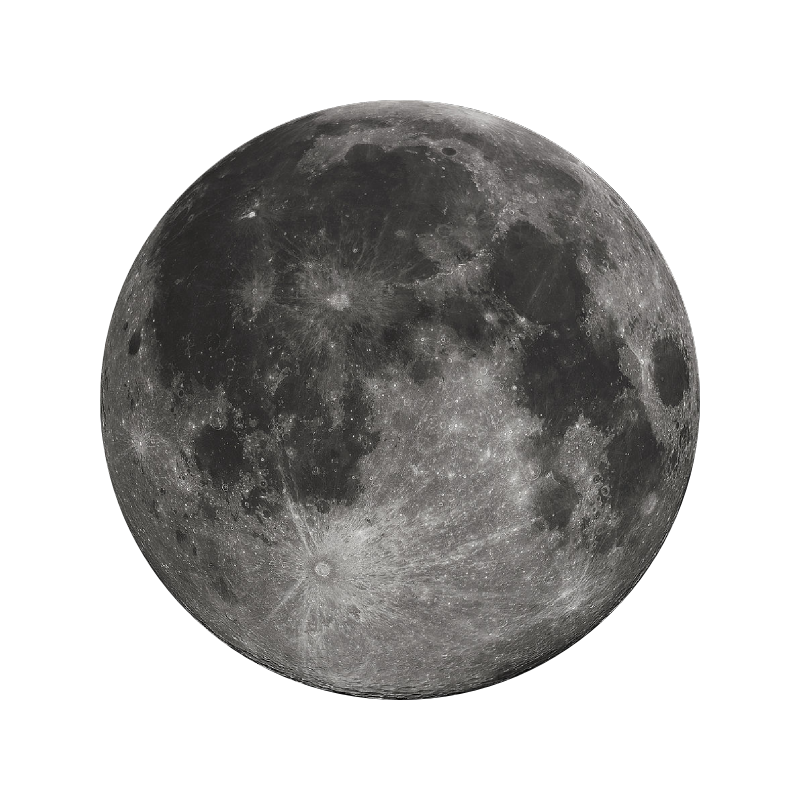
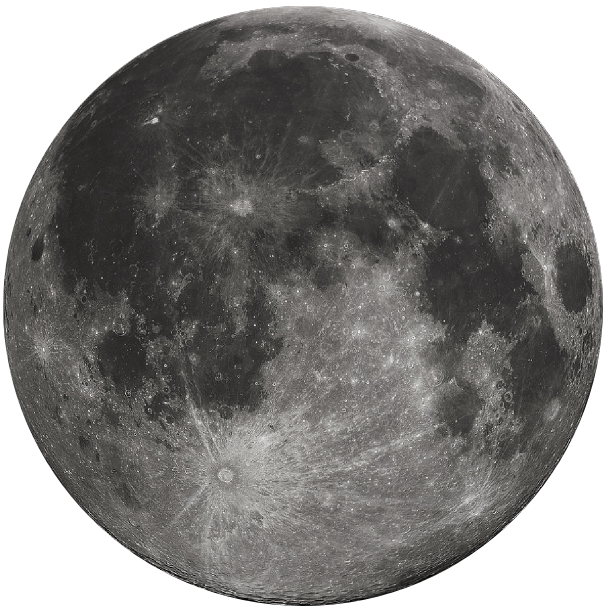
Fixed rendering of round objects

diff --git a/core/src/com/binarygames/spaceboi/gameobjects/entities/EntityStatic.java b/core/src/com/binarygames/spaceboi/gameobjects/entities/EntityStatic.java
@@ -2,6 +2,7 @@ package com.binarygames.spaceboi.gameobjects.entities;
 
 import com.badlogic.gdx.graphics.OrthographicCamera;
 import com.badlogic.gdx.graphics.Texture;
+import com.badlogic.gdx.graphics.g2d.Sprite;
 import com.badlogic.gdx.graphics.g2d.SpriteBatch;
 import com.badlogic.gdx.math.Vector3;
 import com.badlogic.gdx.physics.box2d.Body;
@@ -14,7 +15,7 @@ public abstract class EntityStatic extends BaseStaticBody {
 
     protected Body body;
 
-    private Texture texture;
+    private Sprite sprite;
 
     private float x;
     private float y;
@@ -24,9 +25,12 @@ public abstract class EntityStatic extends BaseStaticBody {
 
     public EntityStatic(World aWorld, float x, float y, String path, float mass, float radius) {
         super(aWorld, x, y, mass, radius);
-        texture = new Texture(path);
         this.x = x;
         this.y = y;
+
+        sprite = new Sprite(new Texture(path));
+        //sprite.setOrigin(sprite.getWidth() / 2, sprite.getHeight() / 2);
+        sprite.setSize(radius * 2 / WORLD_TO_BOX, radius * 2 / WORLD_TO_BOX);
 
         BodyDef groundBodyDef = new BodyDef();
         groundBodyDef.position.set(pos);
@@ -44,7 +48,8 @@ public abstract class EntityStatic extends BaseStaticBody {
     @Override
     public void render(SpriteBatch batch, OrthographicCamera camera) {
         Vector3 screenCoords = camera.project(new Vector3(body.getPosition(), 0));
-        batch.draw(texture, screenCoords.x - texture.getWidth() / 2, screenCoords.y - texture.getHeight() / 2);
+        sprite.setPosition(screenCoords.x - sprite.getWidth() / 2, screenCoords.y - sprite.getHeight() / 2);
+        sprite.draw(batch);
     }
 
     public Body getBody() {

diff --git a/core/src/com/binarygames/spaceboi/gameobjects/GameWorld.java b/core/src/com/binarygames/spaceboi/gameobjects/GameWorld.java
@@ -39,15 +39,13 @@ public class GameWorld {
     }
 
     public void createWorld() {
-        Player player = new Player(world, 0, 0, "playerShip.png", 1000, 100, this);
+        Player player = new Player(world, 0, 0, "playerShip.png", 500, 2, this);
         addDynamicEntity(player);
         this.player = player;
 
-        Planet planet1 = new Planet(world, Gdx.graphics.getWidth() / 2, Gdx.graphics.getHeight(), "moon.png",
-                                    (float) Math.pow(4.6 * 10, 7), Gdx.graphics.getHeight());
+        Planet planet1 = new Planet(world, 35, 30, "moon.png",(float) Math.pow(4.6 * 10, 7), 20);
         addStaticEntity(planet1);
-        Planet planet2 = new Planet(world, Gdx.graphics.getWidth() * 2, Gdx.graphics.getHeight() / 2, "moon.png",
-                                    (float) Math.pow(4.0 * 10, 7), Gdx.graphics.getHeight());
+        Planet planet2 = new Planet(world, 100, 30, "moon.png", (float) Math.pow(4.0 * 10, 7), 15);
         addStaticEntity(planet2);
 
         world.setContactListener(new GameConctatListener(player));
@@ -65,10 +63,10 @@ public class GameWorld {
 
     public void render(SpriteBatch batch, OrthographicCamera camera) {
         for (EntityStatic entity : staticEntities) {
-            //entity.render(batch, camera);
+            entity.render(batch, camera);
         }
         for (EntityDynamic entity : dynamicEntities) {
-            //entity.render(batch, camera);
+            entity.render(batch, camera);
         }
     }
 

diff --git a/core/src/com/binarygames/spaceboi/gameobjects/entities/EntityDynamic.java b/core/src/com/binarygames/spaceboi/gameobjects/entities/EntityDynamic.java
@@ -12,7 +12,6 @@ import com.binarygames.spaceboi.gameobjects.bodies.BaseDynamicBody;
 
 public abstract class EntityDynamic extends BaseDynamicBody {
 
-    private Texture texture;
     private Sprite sprite;
 
     private int speedX = 8;
@@ -28,8 +27,8 @@ public abstract class EntityDynamic extends BaseDynamicBody {
 
     public EntityDynamic(World world, float x, float y, String path, float mass, float radius) {
         super(world, x, y, mass, radius);
-        texture = new Texture(path);
-        this.sprite = new Sprite(texture);
+        this.sprite = new Sprite(new Texture(path));
+        sprite.setSize(radius * 2 / WORLD_TO_BOX, radius * 2 / WORLD_TO_BOX);
         this.x = x;
         this.y = y;
     }
@@ -63,10 +62,10 @@ public abstract class EntityDynamic extends BaseDynamicBody {
         }
     }
 
-    @Override
-    public void render(SpriteBatch batch, OrthographicCamera camera) {
+    @Override public void render(SpriteBatch batch, OrthographicCamera camera) {
         Vector3 screenCoords = camera.project(new Vector3(body.getPosition(), 0));
-        batch.draw(texture, screenCoords.x - texture.getWidth() / 2, screenCoords.y - texture.getHeight() / 2);
+        sprite.setPosition(screenCoords.x - sprite.getWidth() / 2, screenCoords.y - sprite.getHeight() / 2);
+        sprite.draw(batch);
     }
 
     public void setMoveUp(boolean moveUp) {

diff --git a/core/src/com/binarygames/spaceboi/screens/GameScreen.java b/core/src/com/binarygames/spaceboi/screens/GameScreen.java
@@ -60,10 +60,10 @@ public class GameScreen implements Screen {
 
         this.game = game;
         // Mysko skit för att få scalingen av debuggkameran rätt
-        camera = new OrthographicCamera(SpaceBoi.VIRTUAL_WIDTH * 0.1f, SpaceBoi.VIRTUAL_HEIGHT * 0.1f);
+        camera = new OrthographicCamera();
         //box2dCamera = new OrthographicCamera(Gdx.graphics.getWidth() * WORLD_TO_BOX, Gdx.graphics.getHeight() * WORLD_TO_BOX);
         // Vet inte riktigt vad jag håller på med här, men det verkar funka // Björn
-        viewport = new FitViewport(SpaceBoi.VIRTUAL_WIDTH * WORLD_TO_BOX, SpaceBoi.VIRTUAL_HEIGHT * WORLD_TO_BOX);
+        viewport = new FitViewport(SpaceBoi.VIRTUAL_WIDTH * WORLD_TO_BOX, SpaceBoi.VIRTUAL_HEIGHT * WORLD_TO_BOX, camera);
         viewport.apply();
 
         //camera = new OrthographicCamera();

diff --git a/core/src/com/binarygames/spaceboi/gameobjects/bodies/BaseBody.java b/core/src/com/binarygames/spaceboi/gameobjects/bodies/BaseBody.java
@@ -13,14 +13,14 @@ public abstract class BaseBody {
     protected World world;
     protected float rad;
 
-    public static final float WORLD_TO_BOX = 0.03125f;
+    public static final float WORLD_TO_BOX = 0.05f;
     public static final float BOX_TO_WORLD = 32f;
 
     public BaseBody(World aWorld, float x, float y, float mass, float radius) { //Just nu tar vi in mass som argument. Tror dock att vi vill ha konstanter eller skala med volym och densitet.
         this.world = aWorld;
-        this.rad = radius * WORLD_TO_BOX;
+        this.rad = radius;
         this.mass = mass;
-        this.pos = new Vector2(x * WORLD_TO_BOX, y * WORLD_TO_BOX);
+        this.pos = new Vector2(x , y);
     }
 
     public abstract void render(SpriteBatch batch, OrthographicCamera camera);

diff --git a/core/src/com/binarygames/spaceboi/gameobjects/entities/Player.java b/core/src/com/binarygames/spaceboi/gameobjects/entities/Player.java
@@ -74,7 +74,7 @@ public class Player extends EntityDynamic {
         recoil.scl(-1);
         Vector2 shootFrom = new Vector2(body.getPosition().add(recoil.scl(rad + 10)));
         System.out.println(shootFrom);
-        EntityDynamic bullet = new Bullet(world, shootFrom.x, shootFrom.y, "playerShip.png", 1000, 10);
+        EntityDynamic bullet = new Bullet(world, shootFrom.x, shootFrom.y, "playerShip.png", 10, 0.2f);
         bullet.getBody().setLinearVelocity(recoil);
         gameWorld.addDynamicEntity(bullet);
     }
